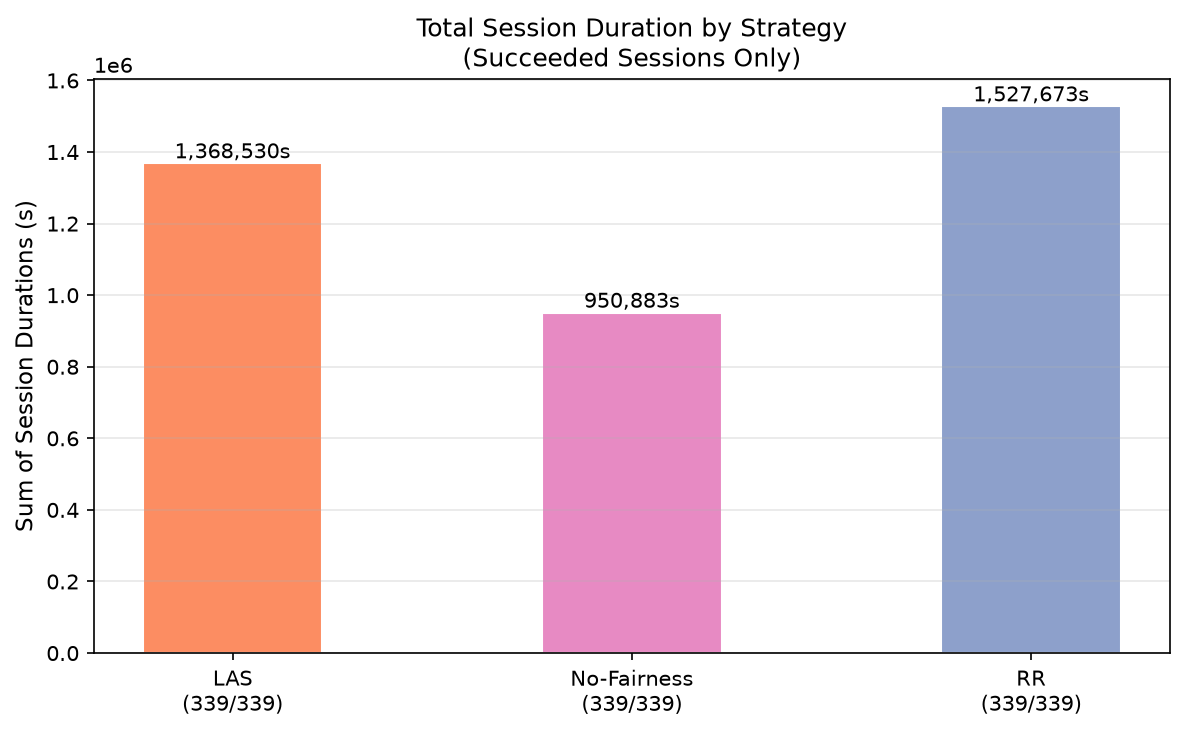
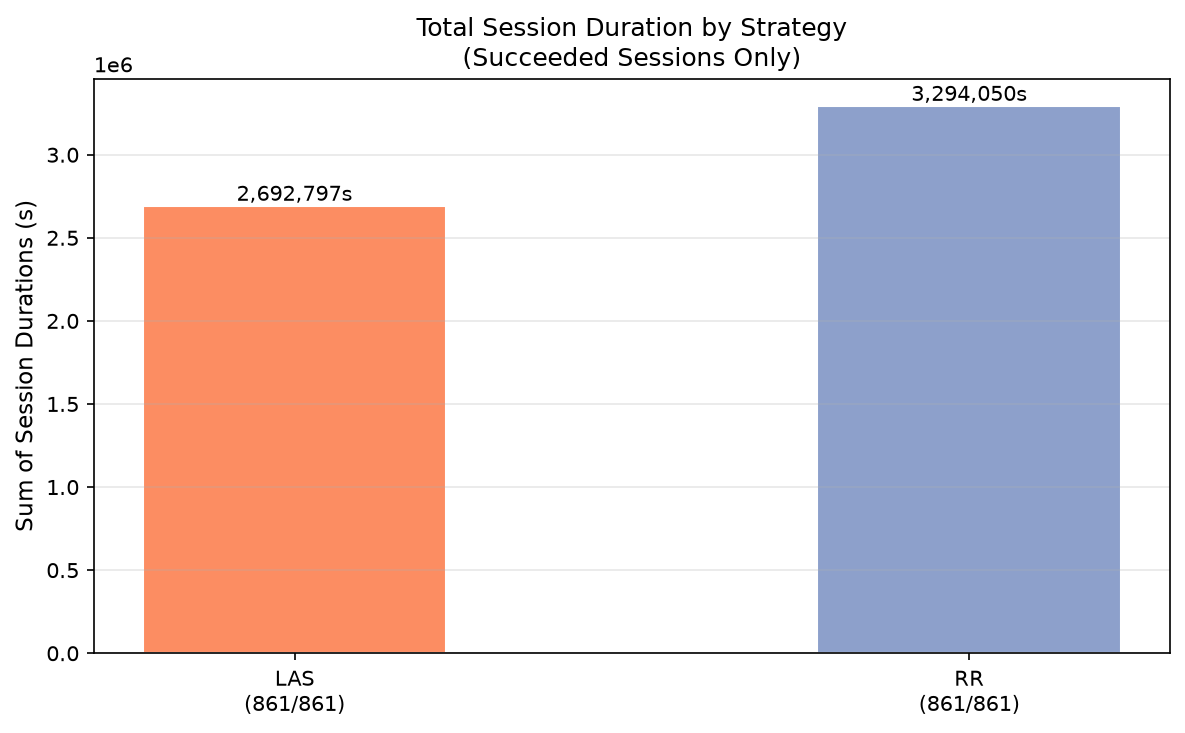
Add headline results

diff --git a/README.md b/README.md
@@ -244,65 +244,70 @@ No-Fairness shows none (flow control disabled).
 
 ## Results
 
-Reproduced across four runs (run4 uses the deployment-accurate `agent-identity` + Claude-session-id
-path; behavior is unchanged from earlier runs, confirming the header change is cosmetic to the result).
+Reproduced across five runs
 
 ### Session completion — the headline
 
 Fairness is about **completing sessions**, not raw token throughput.
 
-| Strategy | run1 | run2 | run3 | run4 | run5 (v0.9.0) |
-|---|---|---|---|---|---|
-| **LAS** | 89.7% | 90.8% | 89.5% | 89.9% | 88.8% |
-| **RR** | 89.4% | 89.9% | 89.9% | 89.9% | 90.2% |
-| **No-Fairness** | 44.7% | — | 42.2% | 42.0% | 44.5% |
-
-(run5 uses the released `ghcr.io/llm-d/llm-d-router-endpoint-picker:v0.9.0` image; runs 1–4 used the dev image — results are identical within noise, confirming the released image reproduces the behavior.)
-
 LAS and RR complete **~90%** of 1000 sessions; No-Fairness completes **~43%** — it lets a few heavy
-sessions monopolize the server and abandons the rest (their requests are cancelled when a
-predecessor times out).
+sessions monopolize the server and abandons the rest (their requests are cancelled when a predecessor times out).
 
-![Session failure rate by strategy](Replicas-2-TP-2-run1/comparison/session_failure_rate.png)
+![Session failure rate by strategy](Replicas-2-TP-2-run4/comparison/session_failure_rate.png)
 
-*run1 session failure rate — LAS 10.3%, RR 10.6%, No-Fairness 55.3%.*
+*run4 session failure rate — LAS 10.1%, RR 10.1%, No-Fairness 59.8%.*
 
 ### Program-duration CDFs by session size (LAS vs RR)
 
-Session-duration CDFs (succeeded sessions), split by request-count bucket. LAS (orange) sits left of
-RR through the body — i.e. lower session latency at the same completion. No-Fairness is omitted here:
-it completes too few sessions (and only the easy ones) for a meaningful duration CDF.
+Session-duration CDFs (succeeded sessions), split by request-count bucket, comparing LAS vs RR at
+**equal completion (899/899 sessions)**. LAS (orange) sits left of RR in every bucket — lower session
+latency for the same amount of completed work. (No-Fairness is excluded from these CDFs: it completes
+too few sessions, and only the easy ones, for a meaningful duration comparison.)
+
+**Headline — median session duration, LAS vs RR (run4):**
+
+| Session size | LAS p50 | RR p50 | LAS faster by |
+|---|---|---|---|
+| 2–7 reqs | 726 s | 1095 s | **34%** |
+| 7–12 reqs | 1730 s | 2176 s | **21%** |
+| 12–26 reqs | 3524 s | 4484 s | **21%** |
+| 26–151 reqs | 7898 s | 8630 s | 9% |
+| **All sizes** | **2432 s** | **2925 s** | **17%** |
+
+LAS wins in every bucket. The edge is largest for short/mid sessions — least-attained-service
+prioritizes sessions that have received less cumulative service — and is still ~9% even on the longest,
+compute-bound sessions, all at identical completion.
 
 | 2–7 requests | 7–12 requests |
 |:---:|:---:|
-| ![2-7 reqs](Replicas-2-TP-2-run1/comparison/program_duration_cdf_2-7_reqs.png) | ![7-12 reqs](Replicas-2-TP-2-run1/comparison/program_duration_cdf_7-12_reqs.png) |
+| ![2-7 reqs](Replicas-2-TP-2-run4/comparison/program_duration_cdf_2-7_reqs.png) | ![7-12 reqs](Replicas-2-TP-2-run4/comparison/program_duration_cdf_7-12_reqs.png) |
 | **12–26 requests** | **26–151 requests** |
-| ![12-26 reqs](Replicas-2-TP-2-run1/comparison/program_duration_cdf_12-26_reqs.png) | ![26-151 reqs](Replicas-2-TP-2-run1/comparison/program_duration_cdf_26-151_reqs.png) |
+| ![12-26 reqs](Replicas-2-TP-2-run4/comparison/program_duration_cdf_12-26_reqs.png) | ![26-151 reqs](Replicas-2-TP-2-run4/comparison/program_duration_cdf_26-151_reqs.png) |
 
-### Latency (run1, per-request, **succeeded requests only**)
+### Latency (run4, per-request, **succeeded requests only**)
 
 | Metric | LAS | RR | No-Fairness |
 |---|---|---|---|
-| TTFT p50 / p99 (s) | 178 / 597 | 188 / 595 | 7.9 / 778 |
-| ITL p50 / p99 (ms) | 21 / 311 | 17 / 268 | 32 / **1311** |
-| E2E p50 / p99 (s) | 220 / 613 | 233 / 562 | 126 / 696 |
-| requests counted | 18,230 | 17,883 | **12,615** |
+| TTFT p50 / p99 (s) | 145 / 530 | 229 / 618 | 190 / 645 |
+| ITL p50 / p99 (ms) | 21 / 293 | 18 / 293 | 180 / **1198** |
+| E2E p50 / p99 (s) | 175 / 552 | 237 / 583 | 101 / 599 |
+| requests counted | 18,466 | 17,899 | **11,685** |
 
 > ⚠ **Read latency with completion %.** No-Fairness's *lower medians are survivorship bias* — it
-> only finished 12,615 of ~18,000 requests (the easy ones), so its "fast" numbers are measured on an
-> easier subset. Its honest cost shows in the **ITL p99 (1311 ms, ~4–5× LAS/RR)** and in completion.
+> only finished 11,685 of ~18,000 requests (the easy ones), so its "fast" numbers are measured on an
+> easier subset. Its honest cost shows in the **ITL p99 (1198 ms, ~4× LAS/RR)** and in completion.
 
-### Goodput & completion-normalized view (run1)
+### Goodput & completion-normalized view (run4)
 
 | Strategy | events completed / 20,523 | completion |
 |---|---|---|
-| LAS | 18,140 | **88.4%** |
-| RR | 17,821 | 86.8% |
-| No-Fairness | 12,613 | **61.5%** |
+| LAS | 18,419 | **89.7%** |
+| RR | 17,814 | 86.8% |
+| No-Fairness | 11,685 | **56.9%** |
 
 The fair way to compare latency is normalized over **all intended requests**: each strategy's CDF
 rises only to its completion ceiling, and the gap to 1.0 is abandoned work. See
-`plots/latency_comparison.py` → `*_cdf_allreqs.png` (No-Fairness plateaus at 0.61; LAS/RR reach ~0.88).
+`plots/latency_comparison.py` → `*_cdf_allreqs.png` (No-Fairness plateaus at ~0.57; LAS reaches ~0.90, RR ~0.87).
 
 ### Takeaways
 
